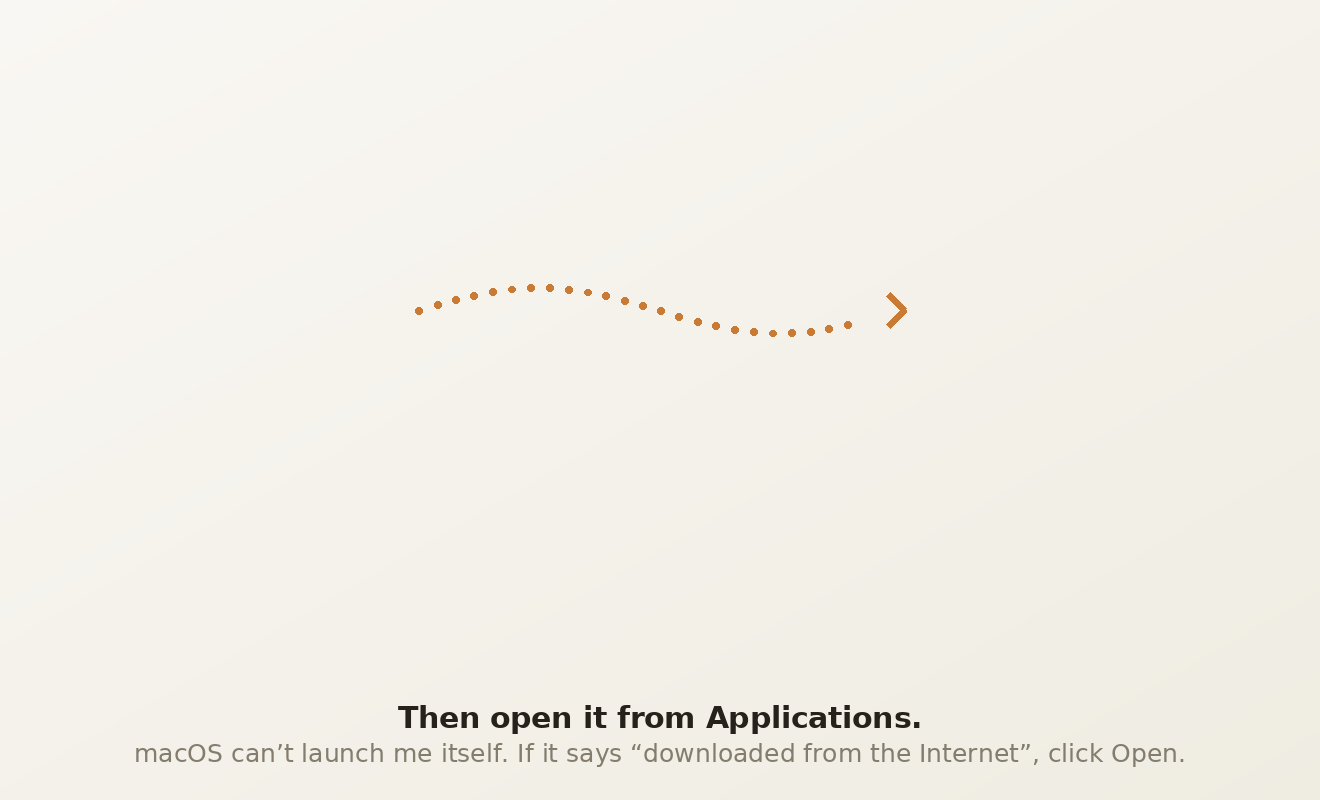
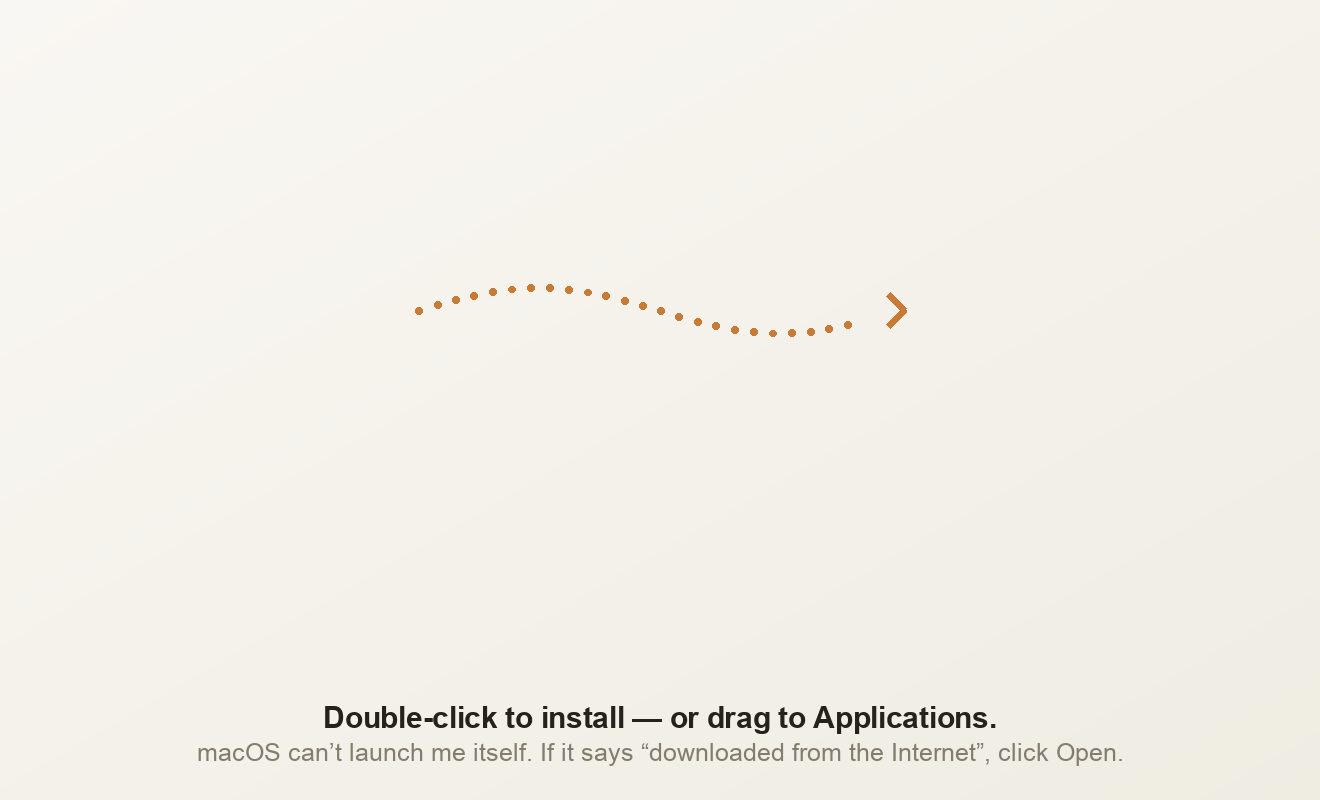
feat(native): styled DMG install window, self-relocating first launch, smarter onboarding
- Wire the existing dmg-bg@2x.png artwork into build-app.sh: script Finder to
  set a background image, hide the toolbar, and position the app/Applications
  icons along the arrow instead of shipping two bare icons on a blank window.
  Bounded with a timeout so a missing Finder Automation grant degrades to an
  unstyled DMG instead of hanging the release build.
- Add FirstLaunchRelocator: double-clicking the app straight out of the
  mounted DMG now copies it to /Applications and relaunches it from there,
  handling both a plain /Volumes mount and Gatekeeper's translocated path.
  Update the DMG caption to lead with that flow, drag-to-Applications as
  fallback.
- Onboarding auto-selects the speech engine recommended for the Mac instead
  of waiting on a tap (still freely overridable), and the footer's blank
  "waiting on your pick" text is now a greyed-out "Try it" pill that fills
  left-to-right in step with the download.

Changed region(s): [[0.0932, 0.875, 0.9008, 0.9688]]

diff --git a/native/Sources/OpenVoiceFlow/OnboardingView.swift b/native/Sources/OpenVoiceFlow/OnboardingView.swift
@@ -68,6 +68,9 @@ struct OnboardingView: View {
     /// Download progress, mirrored up from the step so the footer can show it.
     /// Starts as a nudge because nothing downloads until an engine is chosen.
     @State private var downloadPercent = "waiting on your pick"
+    /// Mirrors `DownloadMeter.displayFraction` so the footer's "Try it" pill
+    /// can fill up in step with the transfer instead of sitting there mute.
+    @State private var downloadFraction: Double = 0
     @Environment(\.accessibilityReduceMotion) private var reduceMotion
     @Environment(\.colorScheme) private var scheme
 
@@ -123,9 +126,11 @@ struct OnboardingView: View {
             if downloadDone {
                 pill("Try it") { step = 3 }
             } else {
-                // Mirrors the card's status, so the footer never reads 100%
-                // while the button that 100% implies is still missing.
-                quiet(downloadPercent)
+                // A greyed-out pill that fills in step with the transfer —
+                // the destination is on screen the whole time, not just the
+                // instant it's reachable, so the wait reads as progress
+                // toward something rather than a stall with no exit.
+                fillingPill("Try it", fraction: downloadFraction)
             }
         case 3:
             // No pill here at all: the only way forward is to speak (or Skip).
@@ -168,6 +173,29 @@ struct OnboardingView: View {
             .padding(.horizontal, 22).padding(.vertical, 10)
     }
 
+    /// The disabled "Try it" pill during the speech-engine download: same
+    /// shape and label as the live pill, but its fill climbs from empty to
+    /// full with the transfer instead of appearing only once tappable. No
+    /// number on it — the fill itself is the progress readout.
+    private func fillingPill(_ title: String, fraction: Double) -> some View {
+        Text(title)
+            .font(.system(size: 13.5, weight: .semibold))
+            .foregroundStyle(p.ink3)
+            .padding(.horizontal, 22).padding(.vertical, 10)
+            .background(
+                Capsule().fill(p.card)
+                    .overlay(alignment: .leading) {
+                        GeometryReader { geo in
+                            Capsule().fill(p.accent.opacity(0.3))
+                                .frame(width: geo.size.width * max(0, min(1, fraction)))
+                        }
+                    }
+                    .clipShape(Capsule())
+            )
+            .overlay(Capsule().strokeBorder(p.hairline))
+            .animation(DT.spineCurve, value: fraction)
+    }
+
     // MARK: steps
 
     @ViewBuilder private var content: some View {
@@ -175,7 +203,7 @@ struct OnboardingView: View {
         case 0: welcome
         case 1: permissions
         case 2: KnowMeDownloadStep(controller: controller, done: $downloadDone,
-                                   percent: $downloadPercent, palette: p)
+                                   percent: $downloadPercent, fraction: $downloadFraction, palette: p)
         case 3: tryItStep
         default: payoffStep
         }
@@ -700,6 +728,8 @@ private struct KnowMeDownloadStep: View {
     @ObservedObject var controller: AppController
     @Binding var done: Bool
     @Binding var percent: String
+    /// Mirrors `meter.displayFraction` up to the footer's filling pill.
+    @Binding var fraction: Double
     let palette: OBPalette
     @StateObject private var meter = DownloadMeter()
     @State private var failed = false
@@ -710,8 +740,10 @@ private struct KnowMeDownloadStep: View {
     @State private var name = ""
     /// Whether the profile draft has been loaded — see appear().
     @State private var hydrated = false
-    /// The engine the user tapped. Nothing downloads until this is non-nil:
-    /// the choice is theirs, not a silent default.
+    /// The engine driving the current (or about-to-start) download. Defaults
+    /// to the recommended pick on appear rather than waiting for a tap — the
+    /// choice is still entirely the user's, they just start from the best
+    /// answer for this Mac instead of a blank row of radio buttons.
     @State private var selected: String?
     /// Invalidates a superseded download's callbacks when the user switches
     /// engines mid-transfer, so the old transfer can't drive the new bar.
@@ -779,6 +811,16 @@ private struct KnowMeDownloadStep: View {
         }
         .onAppear(perform: appear)
         .onDisappear(perform: persist)
+        // Keeps the footer's filling pill honest through the whole ride,
+        // including the optimizing creep after the transfer itself ends —
+        // that phase has no discrete callback of its own to hang an update
+        // off of, so this is the one thing that has to poll.
+        .task {
+            while !Task.isCancelled {
+                fraction = meter.displayFraction
+                try? await Task.sleep(for: .milliseconds(120))
+            }
+        }
     }
 
     private var engineCard: some View {
@@ -936,11 +978,15 @@ private struct KnowMeDownloadStep: View {
         }
         guard !done, selected == nil else { return }
         // A reinstall already has an engine on disk: no choice to re-litigate,
-        // no bar for something instant — straight to the name.
+        // no bar for something instant — straight to the name. Otherwise
+        // start from the engine recommended for this Mac rather than an
+        // empty picker — a tap on any other row still overrides it freely.
         Task {
             if await controller.isModelReady() {
                 skipProgress = true
                 done = true
+            } else if selected == nil {
+                choose(Self.recommendedEngineID)
             }
         }
     }

diff --git a/native/Sources/OpenVoiceFlow/FirstLaunchRelocator.swift b/native/Sources/OpenVoiceFlow/FirstLaunchRelocator.swift
@@ -1,0 +1,111 @@
+import AppKit
+import Foundation
+import os
+
+/// Copies OpenVoiceFlow into /Applications and relaunches it from there the
+/// moment someone opens it straight out of the install DMG — so double-clicking
+/// the icon in the DMG window is enough; there is no separate "now drag it,
+/// then go find it again" step, and no Spotlight search after the copy lands.
+///
+/// Dragging the icon onto the Applications shortcut still works exactly as
+/// before (that copy is inert until launched, same as always). This only
+/// covers the case where the app itself gets opened before anyone dragged it
+/// anywhere — the thing that used to just run in place, invisibly, off a
+/// disk image that vanishes on eject.
+@MainActor
+enum FirstLaunchRelocator {
+    // Sendable and immutable — safe to touch from the non-isolated
+    // completion handlers below without hopping back to the main actor.
+    private nonisolated static let logger = Logger(subsystem: "app.openvoiceflow", category: "relocate")
+
+    /// Returns true when a relocation was kicked off. The caller must stop its
+    /// own startup right there — this process is on its way out.
+    static func relocateToApplicationsIfNeeded() -> Bool {
+        #if DEBUG
+        // Never hijack a Run-from-Xcode build — it never lives on a volume
+        // that matches the checks below anyway, but this keeps it explicit.
+        return false
+        #else
+        let bundleURL = Bundle.main.bundleURL
+        let path = bundleURL.path
+
+        // A plain DMG mount shows up under /Volumes. A quarantined app opened
+        // directly off that DMG (without being moved first) instead runs from
+        // a randomised Gatekeeper "translocation" path — same disk image,
+        // different apparent location — so both need to be caught here.
+        let runningFromDiskImage = path.hasPrefix("/Volumes/") || path.contains("/AppTranslocation/")
+        guard runningFromDiskImage else { return false }
+
+        let destination = URL(fileURLWithPath: "/Applications")
+            .appendingPathComponent(bundleURL.lastPathComponent)
+        let fileManager = FileManager.default
+
+        do {
+            if fileManager.fileExists(atPath: destination.path) {
+                try fileManager.removeItem(at: destination)
+            }
+            try fileManager.copyItem(at: bundleURL, to: destination)
+        } catch {
+            // No write access to /Applications, or something unexpected about
+            // the source volume: run in place rather than block launch on an
+            // install step that didn't work.
+            logger.error("copy to /Applications failed: \(error.localizedDescription, privacy: .public)")
+            return false
+        }
+
+        // Default configuration except for one marker argument: if an older
+        // copy is somehow already running (this app persists as a menu-bar
+        // accessory), openApplication activates that existing instance
+        // instead of launching a second one fighting it for the same hotkey
+        // and microphone — and the marker tells the copy that DOES launch it
+        // is safe to sweep up the install volume (see below).
+        let configuration = NSWorkspace.OpenConfiguration()
+        configuration.arguments = [Self.relocatedMarkerArgument]
+        NSWorkspace.shared.openApplication(at: destination, configuration: configuration) { _, error in
+            if let error {
+                logger.error("relaunch from /Applications failed: \(error.localizedDescription, privacy: .public)")
+            }
+        }
+
+        // Ejecting the disk image is the *new* process's job, not this one's:
+        // this process's own executable is still mapped from that volume, so
+        // it would just get "resource busy" — and terminate() below tends to
+        // end the run loop before a delayed block here ever gets to fire
+        // anyway. See ejectStaleInstallVolumesIfAny().
+        NSApplication.shared.terminate(nil)
+        return true
+        #endif
+    }
+
+    /// Passed as a launch argument to the relaunched copy so it — and only
+    /// it — knows to sweep up the install volume. Without this gate, any
+    /// ordinary subsequent launch (a login item, reopening from the Dock)
+    /// would eject whatever "OpenVoiceFlow …" volume happens to be mounted,
+    /// even one the user is still looking at for an unrelated reason.
+    static let relocatedMarkerArgument = "--ovf-relocated"
+
+    /// Best-effort cleanup right after a relocation: eject the install volume
+    /// this process was just copied out of, so the desktop doesn't keep a
+    /// stray disk-image icon around. Retries once, since the previous
+    /// process freeing the volume can lag a beat behind its own exit.
+    static func ejectStaleInstallVolumesIfAny() {
+        guard ProcessInfo.processInfo.arguments.contains(relocatedMarkerArgument) else { return }
+        guard let volumes = try? FileManager.default.contentsOfDirectory(atPath: "/Volumes") else { return }
+        let candidates = volumes.filter { $0.hasPrefix("OpenVoiceFlow") }
+        guard !candidates.isEmpty else { return }
+
+        for name in candidates {
+            Task.detached(priority: .utility) {
+                for attempt in 0..<2 {
+                    if attempt > 0 { try? await Task.sleep(for: .seconds(2)) }
+                    let eject = Process()
+                    eject.executableURL = URL(fileURLWithPath: "/usr/bin/hdiutil")
+                    eject.arguments = ["eject", "/Volumes/\(name)"]
+                    try? eject.run()
+                    eject.waitUntilExit()
+                    if eject.terminationStatus == 0 { break }
+                }
+            }
+        }
+    }
+}

diff --git a/native/Sources/OpenVoiceFlow/OpenVoiceFlowApp.swift b/native/Sources/OpenVoiceFlow/OpenVoiceFlowApp.swift
@@ -56,6 +56,14 @@ final class AppDelegate: NSObject, NSApplicationDelegate {
     private var onboardingWindow: NSWindow?
 
     func applicationDidFinishLaunching(_ notification: Notification) {
+        // First thing, before anything else stands up: if this is a launch
+        // straight off the install DMG, hand off to the copy in /Applications
+        // and stop here — this process is already on its way out.
+        if FirstLaunchRelocator.relocateToApplicationsIfNeeded() { return }
+        // No-op unless this launch was itself the relaunch a relocation just
+        // triggered, in which case the install DMG may still be mounted —
+        // sweep it away rather than leave a stray disk-image icon.
+        FirstLaunchRelocator.ejectStaleInstallVolumesIfAny()
         // The app launches as an accessory (LSUIElement) so the dashboard scene
         // stays dormant; promoting to .regular here adds the Dock icon without
         // auto-presenting that window. Settings ▸ Show in Dock flips it back.

diff --git a/native/scripts/render-dmg-bg.py b/native/scripts/render-dmg-bg.py
@@ -2,11 +2,13 @@
 """Render native/assets/dmg-bg@2x.png — the DMG window background.
 
 Every value here comes from the phase-06 handoff (T1). The ground, the dotted
-ember wave and the chevron are unchanged from the shipped asset; only the
-caption changed, from a checksum note nobody reads off a disk image to the two
-lines that pre-empt Gatekeeper:
+ember wave and the chevron are unchanged from the shipped asset. The caption
+was rewritten again once the app learned to move and relaunch itself
+(FirstLaunchRelocator): double-clicking the icon right here now finishes the
+install on its own, so that's the instruction that leads, with the drag as a
+fallback for anyone who'd rather do it by hand:
 
-    Then open it from Applications.
+    Double-click to install — or drag to Applications.
     macOS can't launch me itself. If it says "downloaded from the Internet",
     click Open.
 
@@ -52,7 +54,7 @@ CAPTION1_BASELINE_FRAC = 0.09   # baseline 9% up from the bottom
 FONT_REG = os.environ.get("OVF_DMG_FONT", "/usr/share/fonts/truetype/dejavu/DejaVuSans.ttf")
 FONT_BOLD = os.environ.get("OVF_DMG_FONT_BOLD", "/usr/share/fonts/truetype/dejavu/DejaVuSans-Bold.ttf")
 
-LINE1 = "Then open it from Applications."
+LINE1 = "Double-click to install — or drag to Applications."
 LINE2 = 'macOS can’t launch me itself. If it says “downloaded from the Internet”, click Open.'
 
 
